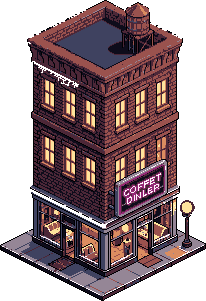
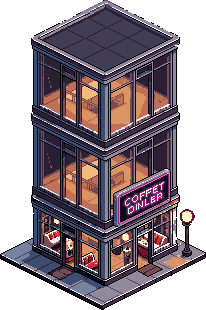
Exchange: the diner in glass on every floor, and the lounge's stairs up through the floor
The diner's two upper storeys outside were brick over a glass diner; they are glass now, in the ground floor's steel
frames, with the sign over the door. The dining room and the lounge inside have glass walls to match. The lounge's
stairs came in through a doorway in its back wall, which read as a door; they now come up through the floor by the
left wall, over the dining room's stair, behind a railing, and the lounge's map, spots and props follow the new picture.

Claude-Session: https://claude.ai/code/session_011FVFbT6X2tiTMEPbvbfDJT

diff --git a/game/js/exchange-rooms.js b/game/js/exchange-rooms.js
@@ -6,9 +6,10 @@
 //   The Pawn Shop      across the canal from the market. The relic trader minds the counter (js/relic-exchange.js).
 //   The warehouse      by the tower. In chapter 10, until it is won, Kagemaru waits in its back room with his pins at
 //                      25% off (js/card-dealer.js); otherwise it is padlocked.
-//   The Coffee Diner   across the avenue from the bank, three storeys: the diner, a dining room upstairs and a lounge at
-//                      the top. Always open: it runs on gas, not the Cloud. A cook and a few regulars; in chapter
-//                      10's storm, the townsfolk who went home from the streets shelter here, a few on each floor.
+//   The Coffee Diner   across the avenue from the bank, three glass storeys: the diner, a dining room upstairs and a
+//                      lounge at the top. Always open: it runs on gas, not the Cloud. A cook and a few regulars; in
+//                      chapter 10's storm, the townsfolk who went home from the streets shelter here, a few on each
+//                      floor.
 //                      Neel waits in a booth until Lost and Found (js/folk-far.js), across the street from his hotel.
 //   The bakery         on the avenue's south side, where the baker takes a smile when nobody can pay.
 //
@@ -227,8 +228,8 @@
       if (!(await D.open('exchange'))) await U.dialog([{ s: 'kagemaru', t: pick(D.lines()) }]);
     }
   };
-  // The diner is the ground floor of a three-storey corner building on the avenue: glass on every side, Hash behind
-  // the counter in the middle, and a spiral stair in the back corner up to the dining room.
+  // The diner is the ground floor of a three-storey glass corner building on the avenue: glass on every side, Hash
+  // behind the counter in the middle, and a spiral stair in the back corner up to the dining room.
   R.xdiner = {
     name: 'THE COFFEE DINER', up: ['xupper', 8, 4, 'west'],
     map: ['############', '############', '############', '########UU##', '########..##',
@@ -251,8 +252,8 @@
     ],
     talk: id => SAY[id] ? folk(id) : FOLK.includes(id) ? sheltered(id, 'xdiner') : outside(id)
   };
-  // Upstairs: a dining room for when the booths are full, the spiral stair coming up in its back corner and a wooden
-  // stair on up to the lounge. Empty but for the jukebox, except in the storm.
+  // Upstairs: a dining room behind the same glass walls, for when the booths are full, the spiral stair coming up in
+  // its back corner and a wooden stair on up the left wall to the lounge. Empty but for the jukebox, except in the storm.
   R.xupper = {
     name: 'THE DINER, UPSTAIRS', up: ['xlounge'], down: ['xdiner', 8, 4, 'south'],
     map: ['############', '############', '############', '############', '##U..##..S##',
@@ -262,7 +263,7 @@
     people: () => shelter('xupper'),
     spots: { _: [[3, 5, 'west'], [3, 7, 'west'], [7, 4, 'west'], [8, 6, 'east'], [8, 7, 'east'], [4, 7, 'north'], [5, 6, 'south']] },
     names: FOLK_NAMES, looks: FOLK_LOOKS,
-    lights: [{ x: 6.2, y: 2.3, r: 2.6 }, { x: 1.5, y: 4.2, r: 2 }, { x: 0.8, y: 5.7, r: 2 }, { x: 11.2, y: 5.7, r: 2 }, { x: 8.3, y: 3.9, r: 1.8, rgb: '255,170,80' }],
+    lights: [{ x: 6.2, y: 2.3, r: 2.6 }, { x: 1.5, y: 4.2, r: 2 }, { x: 0.8, y: 5.7, r: 2 }, { x: 10.6, y: 4.2, r: 2 }, { x: 11.2, y: 5.7, r: 2 }, { x: 8.3, y: 3.9, r: 1.8, rgb: '255,170,80' }],
     props: [
       { x: 8, y: 3, t: () => storm() ? ['The jukebox, turned down low so people can sleep. It is playing the same song as always, very quietly.'] : ['A jukebox. Every song on it is about coffee, or about leaving town. Nobody ever picks the leaving ones.'] },
       { x: 6, y: 4, t: () => ['A low table in front of the sofa, with a chessboard on it. The game has been going since loop one. It is white to move. It has always been white to move.'] },
@@ -271,23 +272,24 @@
     ],
     talk: id => sheltered(id, 'xupper')
   };
-  // The lounge at the top, up from the dining room: sofas, a coffee urn, a record player, and Hash's armchair under
-  // the window that looks out at the tower. The stairs down are through the opening in the back corner.
+  // The lounge at the top: the wooden stair from the dining room comes up through the floor by the left wall, behind a
+  // railing. A sofa, armchairs, a coffee urn, and Hash's armchair by the window that looks out at the tower.
   R.xlounge = {
     name: 'THE DINER LOUNGE', down: ['xupper', 3, 4, 'east'],
-    map: ['############', '############', '############', '###S########', '###.....####',
-      '###....#####', '###....#####', '##.....#####', '############'],
-    enter: [3, 4, 'south'],
+    map: ['############', '############', '############', '############', '####.#..####',
+      '####...#.###', '##SS.....###', '#......#####', '############'],
+    enter: [2, 7, 'east'],
+    // Clear of the ways from the stairs to the urn and round the table to the sofa.
     people: () => shelter('xlounge'),
-    spots: { _: [[4, 5, 'east'], [6, 6, 'east'], [2, 7, 'east'], [4, 7, 'north']] },
+    spots: { _: [[4, 4, 'east'], [5, 5, 'north'], [6, 7, 'north'], [1, 7, 'east']] },
     names: FOLK_NAMES, looks: FOLK_LOOKS,
-    lights: [{ x: 1.8, y: 2.3, r: 2.2 }, { x: 6.8, y: 1.5, r: 2.4 }, { x: 10.2, y: 2.4, r: 2.2 }, { x: 8.9, y: 2.8, r: 2.4 }, { x: 1.3, y: 6.1, r: 2 }],
+    lights: [{ x: 5, y: 2.1, r: 2.4 }, { x: 7.3, y: 2.1, r: 2.4 }, { x: 1.8, y: 3.4, r: 2 }, { x: 10.4, y: 3.4, r: 2 }],
     props: [
-      { x: 5, y: 3, t: () => storm() ? ['A record player, turned down low. The record has a crack in it, so the same chorus comes round every few seconds. Nobody minds. It sounds like a loop.'] : ['A record player and a stack of records, all diner songs. One sleeve says LIVE AT THE COFFEE DINER. Hash says he was there.'] },
-      { x: 6, y: 3, t: () => ['A coffee urn the size of a fire hydrant. A note is taped to it: HELP YOURSELF. ALSO HELP SOMEONE ELSE. HASH.'] },
-      { x: 7, y: 3, t: () => storm() ? ['Hash\'s armchair, under the window that looks out at the tower. The tower is dark. Hash hasn\'t sat down since the storm.'] : ['Hash\'s armchair, under the window that looks out at the tower. He takes his break here, five minutes a night, and watches Kyu\'s light blink.'] },
-      { x: 7, y: 5, t: () => ['A low table with two mugs on it, and a jigsaw of the Exchange skyline, nearly done. The piece with the tower on it is missing.'] },
-      { x: 2, y: 5, t: () => storm() ? ['A sofa piled with damp coats and spare blankets. Hash brought the blankets up from somewhere. Nobody asked where.'] : ['A worn red sofa. The dent in the middle cushion is the exact shape of someone who comes in every night at four.'] }
+      { x: 5, y: 4, t: () => storm() ? ['Hash\'s armchair, by the window that looks out at the tower. The tower is dark. Hash hasn\'t sat down since the storm.'] : ['Hash\'s armchair, by the window that looks out at the tower. He takes his break here, five minutes a night, and watches Kyu\'s light blink.'] },
+      { x: 7, y: 3, t: () => ['A coffee urn the size of a fire hydrant. A note is taped to it: HELP YOURSELF. ALSO HELP SOMEONE ELSE. HASH.'] },
+      { x: 7, y: 5, t: () => ['A low table with mugs on it, and a jigsaw of the Exchange skyline, nearly done. The piece with the tower on it is missing.'] },
+      { x: 9, y: 6, t: () => storm() ? ['A sofa piled with damp coats and spare blankets. Hash brought the blankets up from somewhere. Nobody asked where.'] : ['A worn red sofa. The dent in the middle cushion is the exact shape of someone who comes in every night at four.'] },
+      { x: 7, y: 7, t: () => ['Two armchairs pulled up for a card game that never finishes. The score is kept on a napkin. The napkin is losing.'] }
     ],
     talk: id => sheltered(id, 'xlounge')
   };

diff --git a/game/js/exchange-iso-art.js b/game/js/exchange-iso-art.js
@@ -1,3 +1,3 @@
 // Made by tools/exchange_iso_art.py: sizes of the isometric Exchange's art, where each object stands (base: the
 // bottom corner of its footprint, in its image), the billboard's poster face and the ground tile sheet.
-SD.isoArt = {"objects": {"xi-hq": [369, 386], "xi-office": [176, 363], "xi-office2": [145, 359], "xi-rowhouse": [186, 225], "xi-hotel": [184, 232], "xi-bank": [216, 182], "xi-diner": [206, 301], "xi-bakery": [165, 207], "xi-pawn": [181, 213], "xi-guildhall": [240, 209], "xi-tenement": [177, 294], "xi-counting": [176, 182], "xi-inn": [179, 202], "xi-narrowhouse": [151, 234], "xi-timberhouse": [158, 166], "xi-shop": [160, 208], "xi-chapel": [163, 184], "xi-warehouse": [212, 199], "xi-fountain": [84, 82], "xi-bear": [66, 75], "xi-ticker": [106, 136], "xi-lamp": [20, 102], "xi-tree": [55, 90], "xi-bench": [35, 30], "xi-stanchion": [52, 59], "xi-billboard": [147, 168], "xi-kiosk": [84, 78], "xi-stall": [102, 94], "xi-crates": [68, 71], "xi-lantern": [28, 42], "xi-well": [84, 77]}, "base": {"xi-hq": [184, 385], "xi-office": [88, 362], "xi-office2": [72, 358], "xi-rowhouse": [92, 224], "xi-hotel": [92, 231], "xi-bank": [108, 181], "xi-diner": [102, 300], "xi-bakery": [82, 206], "xi-pawn": [90, 212], "xi-guildhall": [120, 208], "xi-tenement": [88, 293], "xi-counting": [88, 181], "xi-inn": [90, 201], "xi-narrowhouse": [82, 233], "xi-timberhouse": [78, 165], "xi-shop": [78, 207], "xi-chapel": [82, 183], "xi-warehouse": [104, 198], "xi-fountain": [42, 81], "xi-bear": [32, 74], "xi-ticker": [86, 135], "xi-lamp": [10, 101], "xi-tree": [26, 89], "xi-bench": [6, 29], "xi-stanchion": [8, 58], "xi-billboard": [71, 167], "xi-kiosk": [42, 77], "xi-stall": [48, 93], "xi-crates": [34, 70], "xi-lantern": [14, 41], "xi-well": [42, 76]}, "face": {"xi-billboard": [[36, 42], [104, 14], [104, 52], [36, 81]]}, "tiles": {"size": 64, "top": 12, "n": 32}};
+SD.isoArt = {"objects": {"xi-hq": [369, 386], "xi-office": [176, 363], "xi-office2": [145, 359], "xi-rowhouse": [186, 225], "xi-hotel": [184, 232], "xi-bank": [216, 182], "xi-diner": [206, 310], "xi-bakery": [165, 207], "xi-pawn": [181, 213], "xi-guildhall": [240, 209], "xi-tenement": [177, 294], "xi-counting": [176, 182], "xi-inn": [179, 202], "xi-narrowhouse": [151, 234], "xi-timberhouse": [158, 166], "xi-shop": [160, 208], "xi-chapel": [163, 184], "xi-warehouse": [212, 199], "xi-fountain": [84, 82], "xi-bear": [66, 75], "xi-ticker": [106, 136], "xi-lamp": [20, 102], "xi-tree": [55, 90], "xi-bench": [35, 30], "xi-stanchion": [52, 59], "xi-billboard": [147, 168], "xi-kiosk": [84, 78], "xi-stall": [102, 94], "xi-crates": [68, 71], "xi-lantern": [28, 42], "xi-well": [84, 77]}, "base": {"xi-hq": [184, 385], "xi-office": [88, 362], "xi-office2": [72, 358], "xi-rowhouse": [92, 224], "xi-hotel": [92, 231], "xi-bank": [108, 181], "xi-diner": [102, 309], "xi-bakery": [82, 206], "xi-pawn": [90, 212], "xi-guildhall": [120, 208], "xi-tenement": [88, 293], "xi-counting": [88, 181], "xi-inn": [90, 201], "xi-narrowhouse": [82, 233], "xi-timberhouse": [78, 165], "xi-shop": [78, 207], "xi-chapel": [82, 183], "xi-warehouse": [104, 198], "xi-fountain": [42, 81], "xi-bear": [32, 74], "xi-ticker": [86, 135], "xi-lamp": [10, 101], "xi-tree": [26, 89], "xi-bench": [6, 29], "xi-stanchion": [8, 58], "xi-billboard": [71, 167], "xi-kiosk": [42, 77], "xi-stall": [48, 93], "xi-crates": [34, 70], "xi-lantern": [14, 41], "xi-well": [42, 76]}, "face": {"xi-billboard": [[36, 42], [104, 14], [104, 52], [36, 81]]}, "tiles": {"size": 64, "top": 12, "n": 32}};
